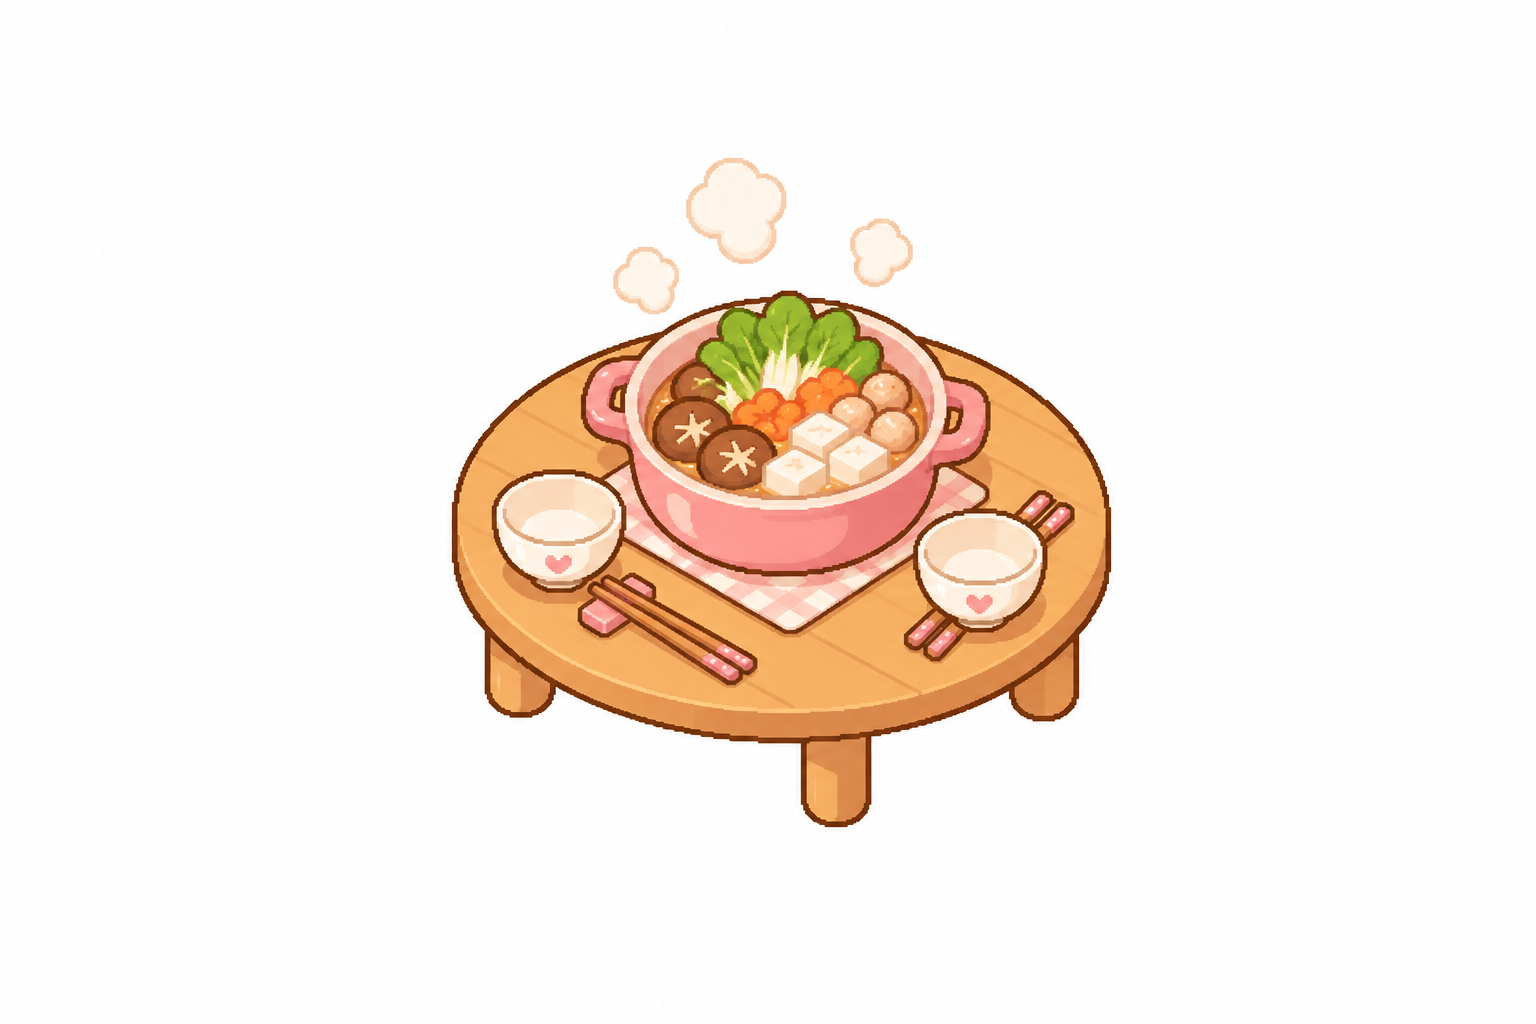
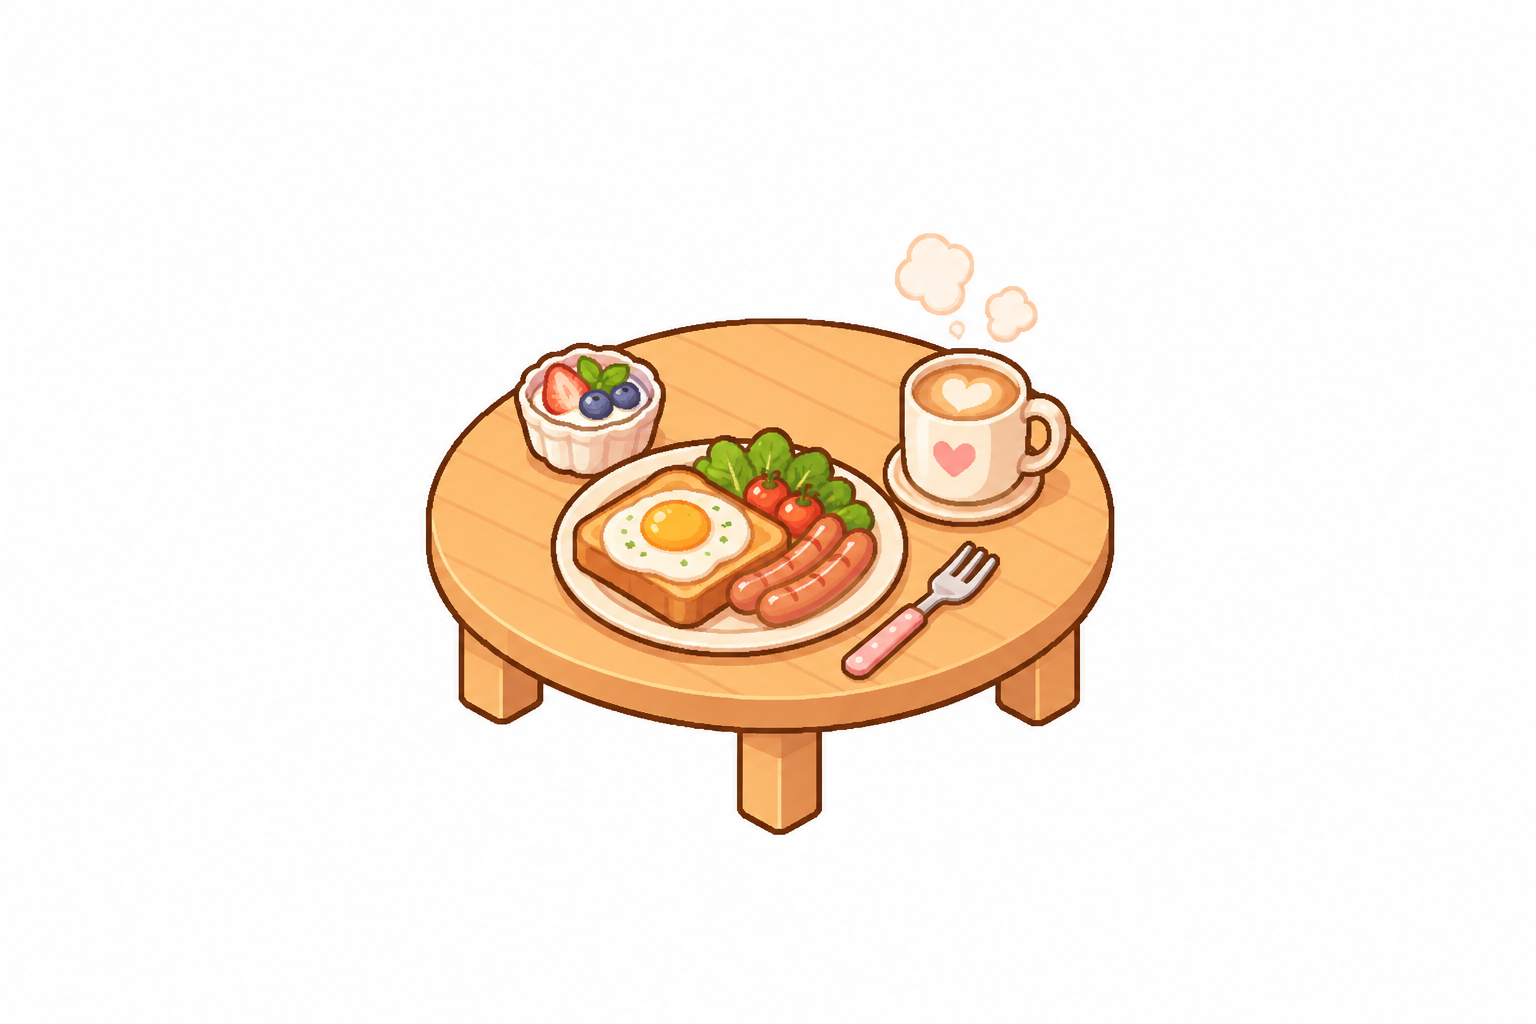
Room items: family hot pot and a homemade breakfast on the low table
"Eating with family" now shows the hot pot on the low table, and "cooked a
meal myself" a breakfast plate, so the rug's centre is a three-way choice
with the rice bowls. The family photo frame is retired (kept as
home_frame.png) and the shelf's long side keeps only the camera.

Claude-Session: https://claude.ai/code/session_01MT4YkmG2KGTMjF5XqnwBbs

Changed region(s): [[0.25, 0.1562, 0.75, 0.8125]]

diff --git a/public/joys-config.js b/public/joys-config.js
@@ -19,14 +19,14 @@ export const IMPRINTS = {
   cake: { name: '杯子蛋糕', where: '書桌上', x: 705, y: 334, w: 58, h: 58, z: 1 },
   call: { name: '復古電話', where: '電視櫃上', x: 1212, y: 576, w: 84, h: 70, z: 1 },
   camera: { name: '拍立得相機', where: '牆角的層架上', x: 845, y: 182, w: 52, h: 52, z: 1 },
-  home: { name: '全家福相框', where: '牆角的層架上', x: 790, y: 156, w: 56, h: 55, z: 1 },
+  home: { name: '一家人的火鍋', where: '電視前的地毯上', x: 975, y: 705, w: 170, h: 165, r: .07, z: 3 },
   plant: { name: '小多肉盆栽', where: '窗台上', x: 470, y: 398, w: 64, h: 49, z: 1 },
   sparkle: { name: '星光串燈', where: '窗簾桿上', x: 470, y: 312, w: 300, h: 178, z: 2 },
   sunset: { name: '風景明信片', where: '窗戶旁的牆上', x: 700, y: 270, w: 96, h: 79, z: 1 },
   game: { name: '掌上遊戲機', where: '床上', x: 520, y: 515, w: 110, h: 69, z: 2 },
   workout: { name: '瑜珈墊和啞鈴', where: '書櫃旁邊', x: 245, y: 712, w: 100, h: 152, r: .045, z: 4 },
   book: { name: '一疊書', where: '小熊旁邊', x: 440, y: 728, w: 118, h: 116, r: .045, z: 5 },
-  cook: { name: '小矮桌和一鍋熱湯', where: '電視前的地毯上', x: 975, y: 705, w: 170, h: 172, r: .07, z: 3 },
+  cook: { name: '自己做的早餐', where: '電視前的地毯上', x: 975, y: 705, w: 170, h: 148, r: .07, z: 3 },
   icecream: { name: '冰淇淋懶骨頭', where: '房間前面的地板', x: 560, y: 830, w: 200, h: 197, r: .09, z: 5 },
   music: { name: '旋轉木馬音樂盒', where: '牆角的層架上', x: 712, y: 163, w: 44, h: 60, z: 1 },
   sun: { name: '向日葵花瓶', where: '電視櫃上', x: 1212, y: 576, w: 70, h: 87, z: 1 },
@@ -43,14 +43,14 @@ export const IMPRINTS = {
 // 擺放位置（多選一，使用者定案）：同一個位置一次只放一件；換上新的，原本那件自動收起來，隨時可以換回來
 // 每個圖示都要有位置（還沒有家具圖的也先排好）；SLOTS 是位置的名稱
 export const SLOTS = {
-  'desk-left': '書桌左邊', 'shelf-left': '角落層架長邊（左）', 'shelf-right': '角落層架長邊（右）',
+  'desk-left': '書桌左邊', 'shelf-right': '角落層架長邊（右）',
   sill: '窗台', rod: '窗簾桿', 'window-wall': '窗戶旁的牆', 'bookcase-right': '書櫃頂', 'bookcase-left': '書櫃頂',
   bedhead: '床頭', bed: '床上', 'bookcase-floor': '書櫃旁的地板', bedside: '床邊的地板', 'bear-right': '小熊旁邊',
   rug: '地毯中間', 'rug-front': '地毯旁邊', 'front-floor': '房間前面的地板', 'shelf-short': '角落層架短邊', 'tv-top': '電視櫃上',
   'door-floor': '門邊的地板', 'door-front': '門前', 'door-hook': '門上的掛鉤', 'wall-right': '右邊的牆上',
 };
 const SLOT_OF = {
-  coffee: 'desk-left', cake: 'desk-left', call: 'tv-top', camera: 'shelf-right', home: 'shelf-left',
+  coffee: 'desk-left', cake: 'desk-left', call: 'tv-top', camera: 'shelf-right', home: 'rug',
   plant: 'sill', sparkle: 'rod', sunset: 'window-wall', sneaker: 'bookcase-right', paw: 'bookcase-left',
   moon: 'bedhead', cat: 'bed', game: 'bed', gift: 'bookcase-floor', workout: 'bookcase-floor', bear: 'bedside', book: 'bear-right',
   meal: 'rug', cook: 'rug', hearts: 'rug-front', icecream: 'front-floor', music: 'shelf-short', sun: 'tv-top', movie: 'tv-top', sing: 'tv-top',

diff --git a/public/sw.js b/public/sw.js
@@ -1,5 +1,5 @@
 // 版本號：主.次.修（見 CLAUDE.md「版本號」）。改了任何檔案就把最後一位 +1，舊快取才會被清掉
-const VERSION = '0.0.103';
+const VERSION = '0.0.104';
 const CACHE = `lifelog-${VERSION}`;
 const ASSETS = [
   './',

diff --git a/art/tools/imprint_items.py b/art/tools/imprint_items.py
@@ -21,7 +21,7 @@ LINE = (62, 23, 11)  # 房間外框的顏色
 # key: 在房間裡的寬度（房間座標）
 WIDTH = {'cat': 130, 'coffee': 54, 'meal': 170, 'gift': 105, 'bear': 95, 'hearts': 112,
          'paw': 120, 'moon': 44, 'star': 200, 'sneaker': 62,
-         'cake': 58, 'call': 84, 'camera': 52, 'home': 56, 'plant': 64, 'sparkle': 300, 'sunset': 96,
+         'cake': 58, 'call': 84, 'camera': 52, 'home': 170, 'plant': 64, 'sparkle': 300, 'sunset': 96,
          'game': 110, 'workout': 100, 'book': 118,
          'bike': 66, 'bath': 54, 'letter': 58, 'umbrella': 62, 'shop': 88, 'clean': 100, 'sun': 70, 'movie': 72,
          'sing': 58, 'music': 44, 'icecream': 200, 'cook': 170}

diff --git a/CLAUDE.md b/CLAUDE.md
@@ -163,12 +163,12 @@
   - 設定 `public/joys-config.js` 的 `IMPRINTS`：每件家具在房間的位置（底部中間 x,y）、大小、疊放順序 z、放在地板上的擋路半徑 r；改數字不用動程式。
   - 圖：`python3 art/tools/imprint_items.py` 把 `art/source/furniture/<key>.png`（GPT 白底單張）去背、縮到房間大小、外框重畫成房間的粗細顏色 → `public/room/imprints/<key>.webp`；新增要加進 `WIDTH`、`IMPRINTS`、`sw.js`。
     - 去背只會去掉「從邊緣連過來的白」；被線圈、帶子圍起來的白底洞要把 key 加進工具的 `HOLES`（清掉和背景一樣白的封閉區塊）。只加確定有洞的：白飯、白色星星這種和背景一樣白的東西會被一起清掉（meal、star 不能加）。新圖做好要放在深色背景上檢查一次。
-  - **多選一的擺放位置**（使用者定案，取代原本的「新家具直接疊上去」）：`joys-config.js` 的 `SLOT_OF` 把 32 個圖示分到 22 個位置（`SLOTS` 是位置名稱），同一個位置一次只放一件。拿到新家具時位置已經有東西，視窗問「換上（原本的收起來）／先收著」；收藏冊的按鈕是「放到房間／換上／收起來」。`shownImprints` 和伺服器 `sharedView` 都是新放的在前，`onePerSlot` 每個位置只留第一件（兩台手機各放一件時，留最後放的）。多選一的位置：書桌左邊 coffee／cake、床上 cat／game、書櫃旁地板 gift／workout、地毯中間 meal／cook、電視櫃上（電視右邊）sun／movie／sing／call、門邊地板 umbrella／shop／clean、門上掛鉤 bath／bike。
-  - 擺放規劃（使用者定案）：**32 件家具都有圖了**，完整的 22 個位置見 `SLOT_OF`、座標見 `IMPRINTS`。**大小以熊熊為現實比例參考**（使用者定案：瑜珈墊比熊熊高、書和熊熊差不多高）。
-    - 書桌左邊 coffee 拿鐵（只有杯子，和蛋糕一樣大）／cake；書桌上的紙條位置不變。角落層架長邊：home 全家福（左）、camera 拍立得（右，只有相機）；角落層架短邊：music 旋轉木馬音樂盒（使用者把唱片機換掉，舊圖 `music_turntable.png`）。窗台 plant、窗簾桿 sparkle 串燈、窗戶旁的牆 sunset 明信片（兩個 `SHEAR` -0.49：負的是往右上升）。
-    - 床上 cat／game；書櫃頂 sneaker 地球儀、paw；書櫃旁 gift／workout；小熊旁 book；地毯中間 meal／cook（同一張小矮桌換成一鍋湯）；地毯左前方 hearts 兩雙室內拖鞋（放在地毯外面，不疊到地毯；取代愛心氣球，舊圖 `hearts_balloons.png`）；前方地板 icecream 懶骨頭。
+  - **多選一的擺放位置**（使用者定案，取代原本的「新家具直接疊上去」）：`joys-config.js` 的 `SLOT_OF` 把 32 個圖示分到 21 個位置（`SLOTS` 是位置名稱），同一個位置一次只放一件。拿到新家具時位置已經有東西，視窗問「換上（原本的收起來）／先收著」；收藏冊的按鈕是「放到房間／換上／收起來」。`shownImprints` 和伺服器 `sharedView` 都是新放的在前，`onePerSlot` 每個位置只留第一件（兩台手機各放一件時，留最後放的）。多選一的位置：書桌左邊 coffee／cake、床上 cat／game、書櫃旁地板 gift／workout、地毯中間 meal／cook／home、電視櫃上（電視右邊）sun／movie／sing／call、門邊地板 umbrella／shop／clean、門上掛鉤 bath／bike。
+  - 擺放規劃（使用者定案）：**32 件家具都有圖了**，完整的 21 個位置見 `SLOT_OF`、座標見 `IMPRINTS`。**大小以熊熊為現實比例參考**（使用者定案：瑜珈墊比熊熊高、書和熊熊差不多高）。
+    - 書桌左邊 coffee 拿鐵（只有杯子，和蛋糕一樣大）／cake；書桌上的紙條位置不變。角落層架長邊：camera 拍立得（只有相機；全家福相框使用者決定不用了，舊圖 `home_frame.png`）；角落層架短邊：music 旋轉木馬音樂盒（使用者把唱片機換掉，舊圖 `music_turntable.png`）。窗台 plant、窗簾桿 sparkle 串燈、窗戶旁的牆 sunset 明信片（兩個 `SHEAR` -0.49：負的是往右上升）。
+    - 床上 cat／game；書櫃頂 sneaker 地球儀、paw；書櫃旁 gift／workout；小熊旁 book；地毯中間三選一，同一張小矮桌：meal 碗筷（使用者要重畫「吃到好吃的」）／cook 自己做的早餐／home 一家人的火鍋（舊的 cook 火鍋圖 `cook_hotpot.png`）；地毯左前方 hearts 兩雙室內拖鞋（放在地毯外面，不疊到地毯；取代愛心氣球，舊圖 `hearts_balloons.png`）；前方地板 icecream 懶骨頭。
     - 電視櫃最左格目前空著；電視櫃上（電視右邊）call／sun／movie／sing（站在桌面中間；電話用 `imprint_items.py` 的 `ROTATE` 轉 11 度，和櫃子平行）；門邊地板 umbrella／shop（只有一個袋子，舊的兩袋 `shop_two_bags.png`）／clean；門前 letter；門上掛鉤 bath／bike（GPT 直接畫成斜掛在門上的角度，**不要再用 `SHEAR` 自己斜**，使用者定案；舊的正面圖 `bath_front.png`、`bike_front.png`）。
-    - 舊模型圖留著備用：`camera_tripod.png`、`cloud_beanbag.png`、`coffee_pot.png`、`hearts_balloons.png`、`shoes.png`、`music_turntable.png`、`shop_two_bags.png`。
+    - 舊模型圖留著備用：`camera_tripod.png`、`cloud_beanbag.png`、`coffee_pot.png`、`hearts_balloons.png`、`shoes.png`、`music_turntable.png`、`shop_two_bags.png`、`home_frame.png`、`cook_hotpot.png`、`bath_front.png`、`bike_front.png`。
   - 收藏冊在「累積幸福 → 全部」最下面，32 格（`JOY_ICONS` 全部）。
 - **使用者在小幸福選單（artifact）選了 32 個**：原本 24 個，加上 game 玩了喜歡的遊戲、cook 自己做了一頓飯、shop 買到喜歡的東西、workout 去運動了、movie 看了好看的電影、clean 把房間整理乾淨、call 和好久不見的人聊天、sing 大聲唱了歌。這 8 個已加進 `JOY_ICONS`（emoji）和 `ASK`，但**還沒有像素圖示**：不在 `JOY_PIX`，所以不能選來當小幸福或紙條貼圖（`PICKABLE_ICONS`），收藏冊顯示「即將推出」；圖做好放進 `public/joys/`、加進 `JOY_PIX` 和 `sw.js`，再加進 `SUGGESTIONS`。原本只有圖示的 6 個補了名稱，加進建議：被抱抱了 bear、照顧了植物 plant、完成了一件事 sparkle、雨天也很好 umbrella、吃到冰淇淋 icecream、騎車出去晃晃 bike。
 - 之後：Phase 2 幸福星罐、Phase 4 年度回顧卡、日記時間軸上的小印章；新房間草稿在 `art/source/room2/room_*.webp`（之後做換房間時用）。
